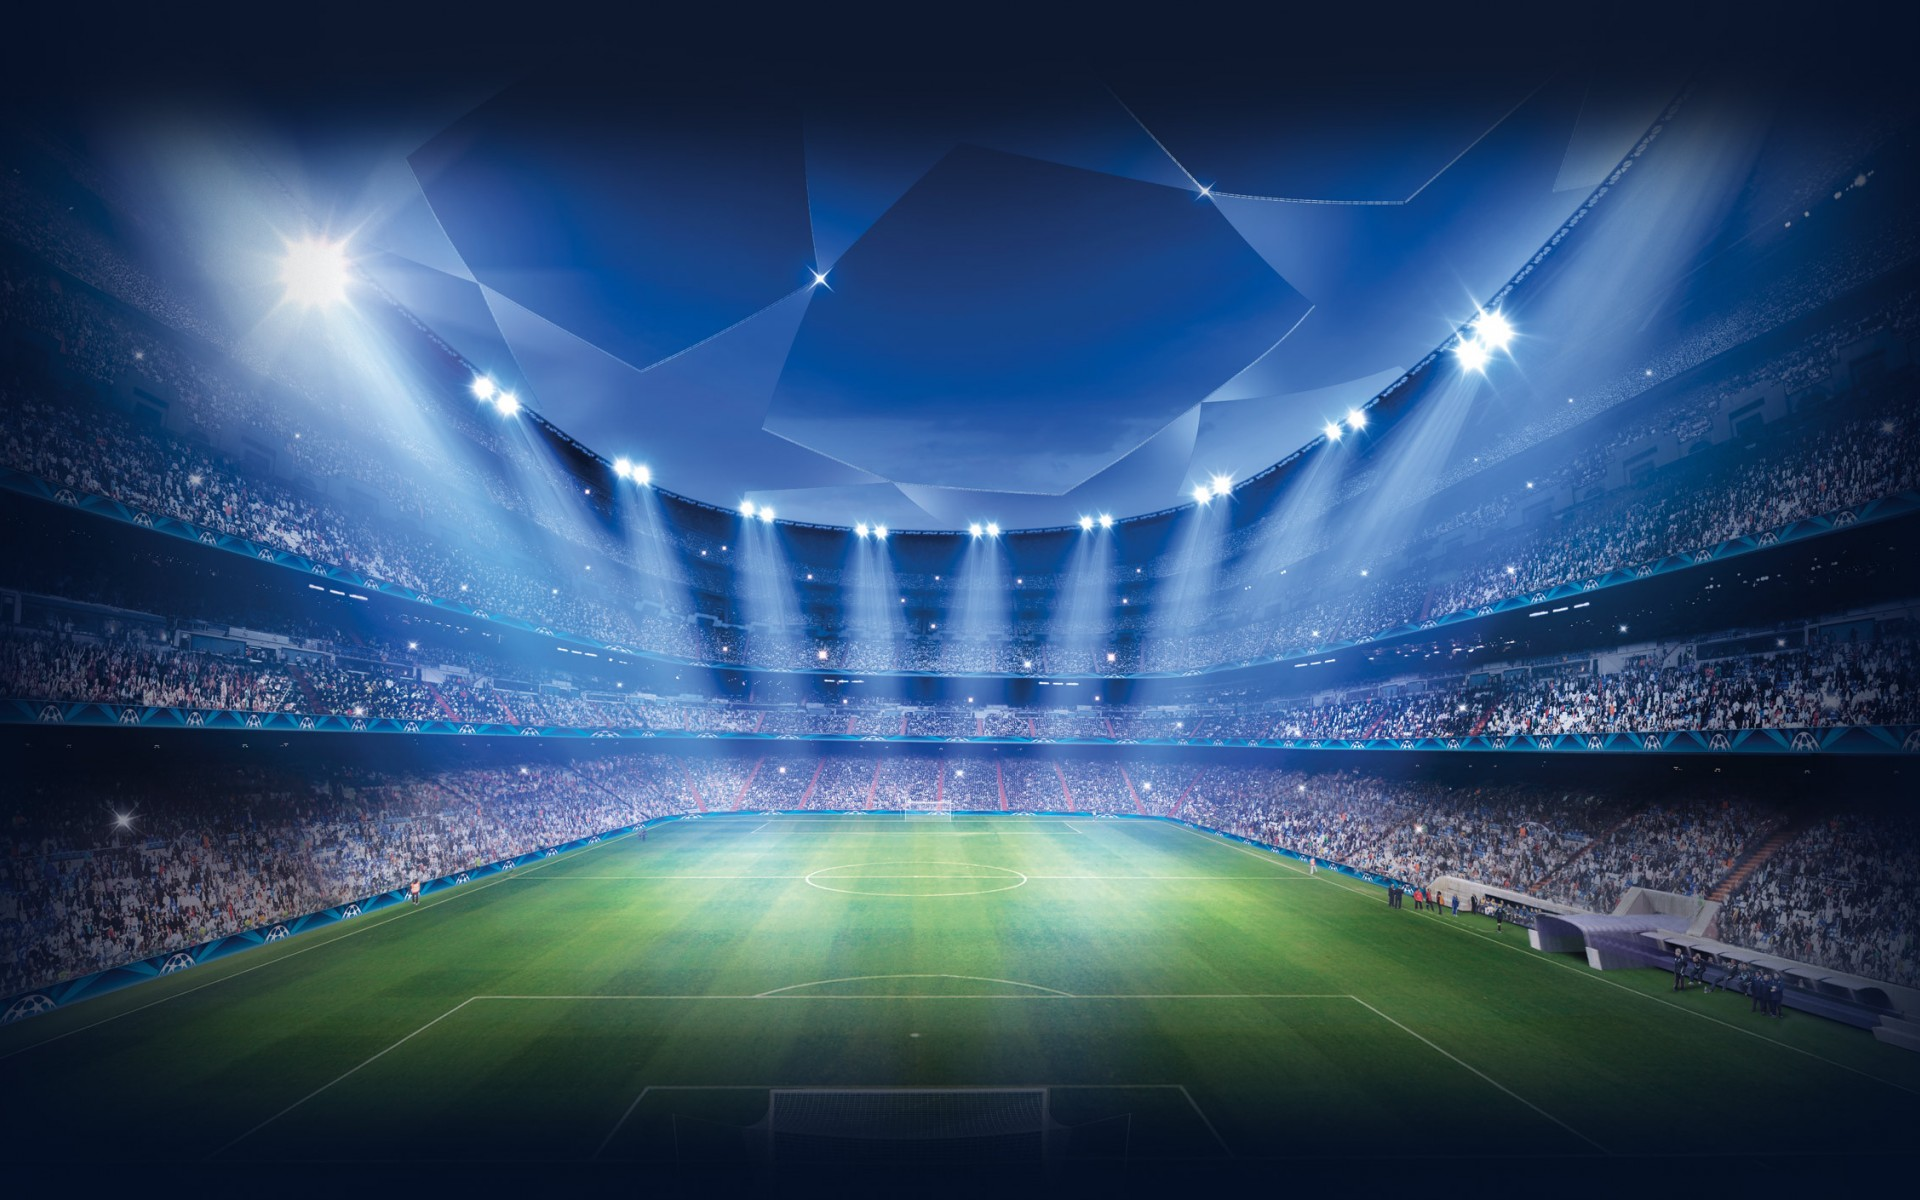
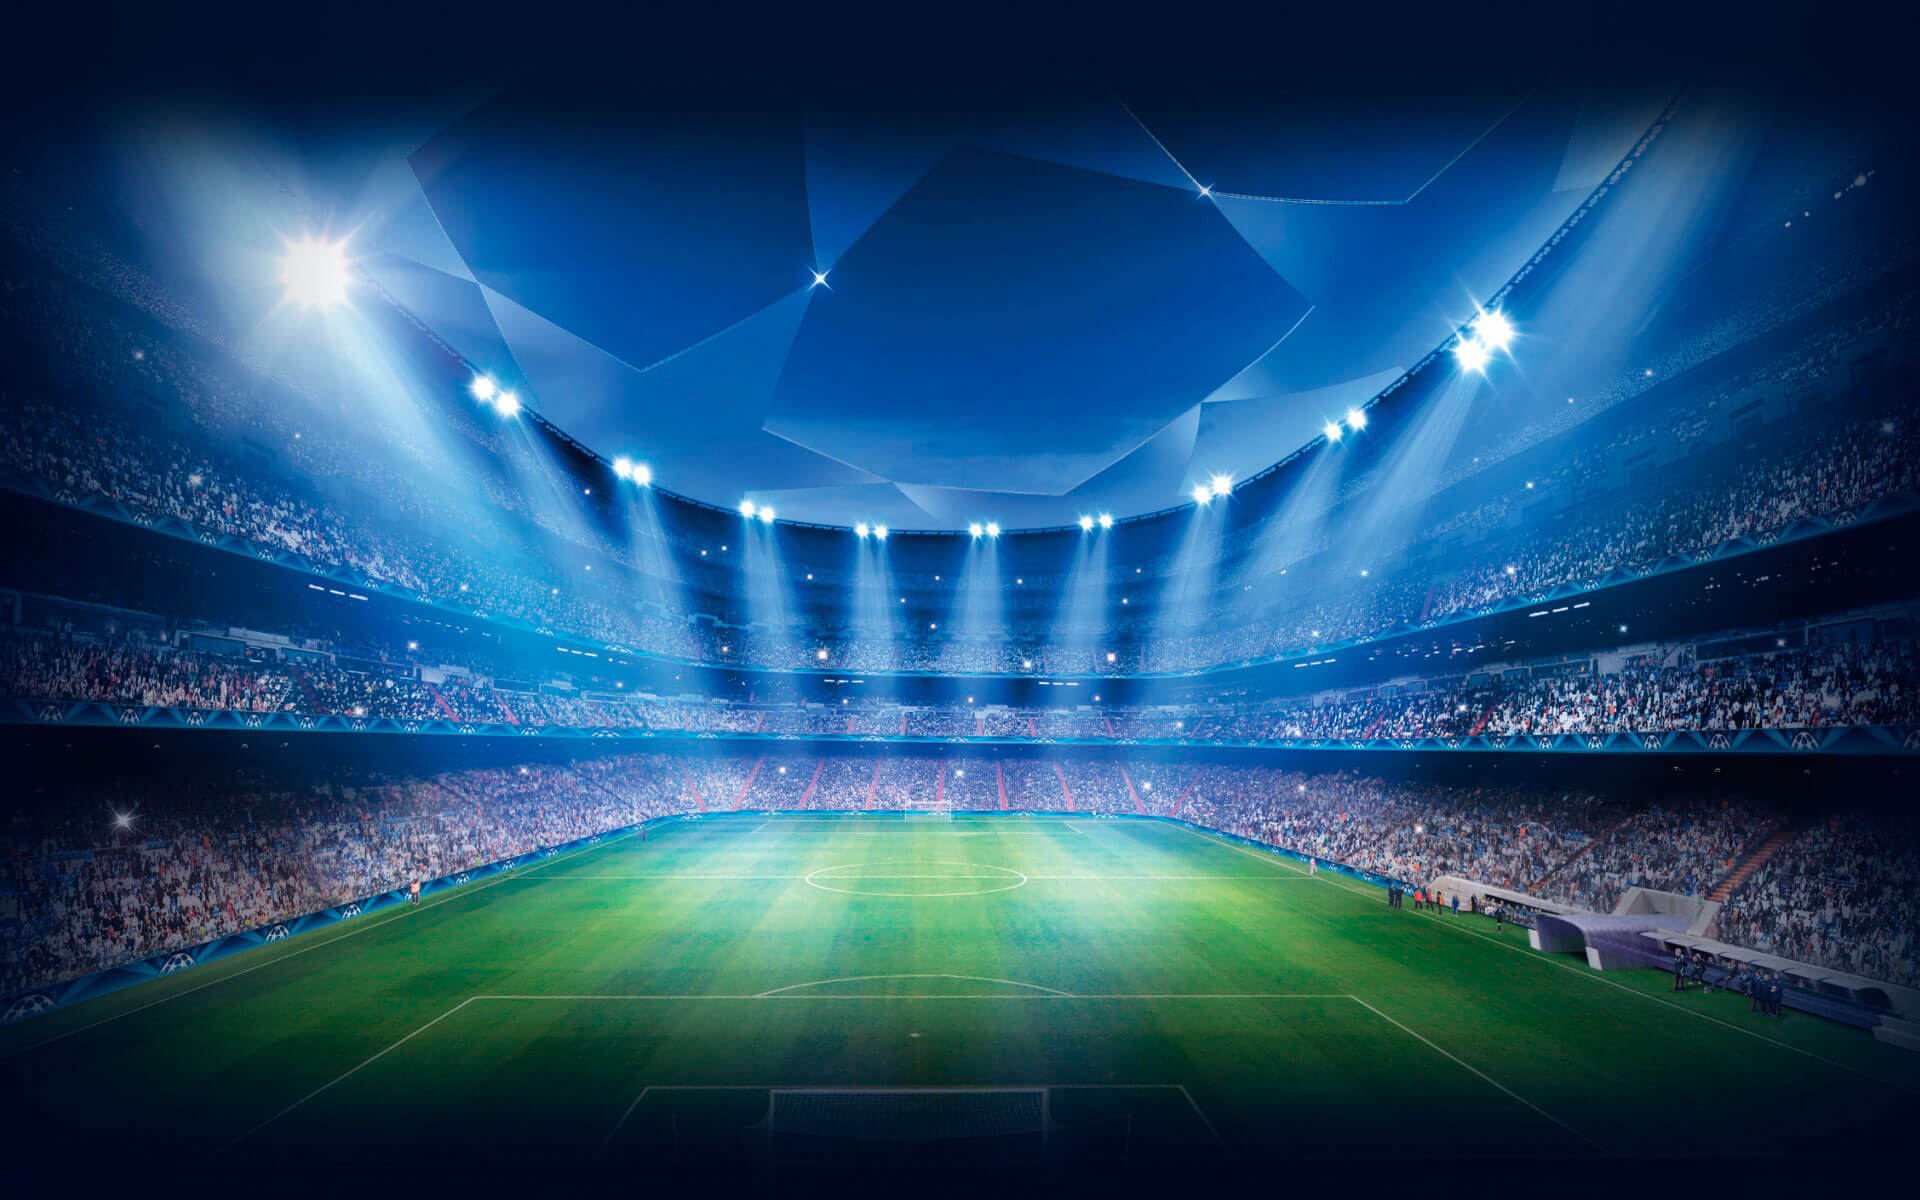
estable1
estable 1

diff --git a/css/intro.css b/css/intro.css
@@ -8,7 +8,9 @@
 body {
 	background: #310404 url(/img/bg-home.jpg) repeat top left;
 	font-family: 'Electrolize';
+	background-size: cover;
 }
+img.mm-uefa{position: absolute;z-index: 20;top:4%;right:4%;width: 7%;}
 
 .container{
 	width: 100%;
@@ -335,4 +337,49 @@ h1.main,p.demos {
 		opacity: 1;
 		transform: scale(1) rotate(0deg);
 	}
+}
+
+
+@media (min-width:320px) {
+/* smartphones, portrait iPhone, portrait 480x320 phones (Android) */
+	img.mm-uefa{position: absolute;z-index: 20;top:4%;right:4%;width: 7%;}
+}
+@media (min-width:480px) {
+/* smartphones, Android phones, landscape iPhone */
+img.mm-uefa{position: absolute;z-index: 20;top:4%;right:4%;width: 7%;}
+}
+@media (min-width:600px) {
+/* portrait tablets, portrait iPad, e-readers (Nook/Kindle), landscape 800x480 phones (Android) */
+img.mm-uefa{position: absolute;z-index: 20;top:4%;right:4%;width: 7%;}
+}
+@media (min-width:801px) and (orientation: portrait){
+/* tablet, landscape iPad, lo-res laptops ands desktops */
+/* huawei 7 pulgadas*/
+	.sp-container h2{font-size: 3em;}
+	.sp-container h2 span{font-size: 1.5em;}
+	.sp-container h2.frame-4{font-size: 4.5em;}
+	img.mm-uefa{position: absolute;z-index: 20;top:4%;right:4%;width: 15%;}
+	.sp-circle-link {
+
+		line-height: 140px;
+		width: 140px;
+		height: 140px;
+		font-size: 3em;
+	}
+}
+@media (min-width:801px) and (orientation: landscape){
+/* tablet, landscape iPad, lo-res laptops ands desktops */
+/* huawei 7 pulgadas*/
+.sp-container h2{font-size: 3em;}
+.sp-container h2 span{font-size: 1em;}
+.sp-container h2.frame-4{font-size: 2.5em;}
+img.mm-uefa{position: absolute;z-index: 20;top:4%;right:4%;width: 15%;}
+}
+@media (min-width:1025px) {
+/* big landscape tablets, laptops, and desktops */
+img.mm-uefa{position: absolute;z-index: 20;top:4%;right:4%;width: 7%;}
+}
+@media (min-width:1281px) {
+/* hi-res laptops and desktops */
+img.mm-uefa{position: absolute;z-index: 20;top:4%;right:4%;width: 7%;}
 }

diff --git a/parciales/equipo.html b/parciales/equipo.html
@@ -1,6 +1,11 @@
 
 
 <h1>Update equipo <span class="small">{{ alumno.nombreEquipo }}</span></h1>
+
+<hr>
+            {{ items | json }}
+
+
 <hr>
 <div class="row">
    <form ng-submit="guardarEquipo()">
@@ -40,6 +45,30 @@
          Grupo Liga:
          <input type="text" class="form-control" tabindex="7" ng-model="alumno.grupoLiga" required>
       </div>
+
+         <div class="row">
+<!--             <div class="col-md-6">
+               Posicion Jugador 2:{{posicionSeleccionada}} 
+               <select ng-model="posicionSeleccionada" class="form-control" ng-options="item as item.posicion for item in items">
+                  <option value="">asdasd</option>
+               </select>
+            </div> -->
+            <div class="col-md-6">
+               Posicion Jugador 2:{{posicionSeleccionada2}} 
+              <select ng-model="posicionSeleccionada2" class="form-control" ng-options="mypos.posicion for mypos in items track by mypos.idPosicion">
+                  <option ng-repeat="nombreposicion2 in items" value="{{nombreposicion2.idPosicion}}">{{nombreposicion2.posicion}}</option>
+               </select>
+               Posicion Jugador 1:{{posicionSeleccionada}} 
+               
+               <select ng-model="posicionSeleccionada" class="form-control" ng-options="mypos.posicion for mypos in items track by mypos.idPosicion">
+                  <option ng-repeat="nombreposicion in items" value="{{nombreposicion.idPosicion}}">{{nombreposicion.posicion}}</option>
+               </select>
+            </div>
+               
+            </div>
+         </div>
+
+   
       <!-- 	Teléfono:
          <input type="text" class="form-control" tabindex="" ng-model="alumno.telefono" ui-mask="{{telefonoMask}}" required>
          

diff --git a/js/equipoCtrl.js b/js/equipoCtrl.js
@@ -1,3 +1,4 @@
+
 app.controller('equipoCtrl', ['$scope', '$routeParams', '$http', function($scope,$routeParams,$http){
 	$('.mainApp').removeClass('fluid-container').addClass('container');
 	
@@ -5,6 +6,9 @@ app.controller('equipoCtrl', ['$scope', '$routeParams', '$http', function($scope
 	var idEquipo = $routeParams.idEquipo;
 	$scope.actualizado = false;
 	$scope.alumno = {};
+	$scope.items={};
+	// $scope.posicionSeleccionada="2";
+	// $scope.posicionSeleccionada2="1";
 
 	$http.get('php/servicios/equipos.getEquipo.php?c='+ idEquipo)
 	.success(function(data){
@@ -16,6 +20,15 @@ app.controller('equipoCtrl', ['$scope', '$routeParams', '$http', function($scope
 		$scope.alumno = data;
 
 	});
+
+
+	$http.get('php/servicios/alumnos.posiciones.php')
+	.success(function(data){
+
+		$scope.items=data;
+	});
+
+
 
 	$scope.guardarEquipo = function(){
 

diff --git a/js/clasificacionCtrl.js b/js/clasificacionCtrl.js
@@ -1,34 +1,4 @@
-app.controller('clasificacionCtrl', ['$scope','$http', function($scope,$http){
-	$('.mainApp').removeClass('fluid-container').addClass('container');
-	
-	$scope.setActive("mClasificacion");
 
-	$scope.alumnos={};
-	$scope.posicion=5;
-
-	$http.get('php/servicios/equipos.listado.php')
-	.success(function(data){
-
-		$scope.alumnos=data;
-	});
-
-	$scope.siguientes = function(){
-
-		if ($scope.alumnos.length > $scope.posicion) {
-
-			$scope.posicion +=5;
-		};
-	}
-
-	$scope.anteriores = function(){
-
-		if ($scope.posicion > 5) {
-
-			$scope.posicion -=5;
-		};
-	}
-
-}]);
 
 app.controller('clasificacionACtrl', ['$scope','$http', function($scope,$http){
 	

diff --git a/index.html b/index.html
@@ -25,7 +25,7 @@
 
                 <h2 class="frame-3">Levantarás la copa o saldrás en la intranet?</h2>
 
-                <h2 class="frame-4">Apúntate YA!</h2>
+                <h2 class="frame-4">Apúntate!</h2>
 
                 <h2 class="frame-5"><span>Pásala</span> <span>Dispara</span> <span>GOLLLL!</span></h2>
     <a class="sp-circle-link" href="home.html#/clasificacion">GO!</a>
@@ -33,6 +33,6 @@
         </div>
     </div>
 </div>
-
+<img class="mm-uefa" src="/img/uefa.png" alt="Media Champions League">
     </body>
 </html>

diff --git a/js/app.js b/js/app.js
@@ -4,6 +4,7 @@ app.controller('mainCtrl', ['$scope','$http', function($scope,$http){
   
 	$scope.menuSuperior = 'parciales/menu.html';
 	$scope.telefonoMask = '9999-9999';
+	
 
 	$scope.setActive = function(Opcion){
 
@@ -25,6 +26,8 @@ app.controller('mainCtrl', ['$scope','$http', function($scope,$http){
 		$scope[Opcion] = "fluid-container";
 
 	}
+
+
 
 }]);
 

diff --git a/parciales/clasificacion.html b/parciales/clasificacion.html
@@ -2,7 +2,6 @@
 <hr>
 
 <div class="row">
-            <!-- {{ alumnos | json }} -->
 <div class="col-md-6 searcher">
 <select ng-model="busqueda.grupoLiga" class="form-control">
 	<option value="">TODOS LOS GRUPOS</option>

diff --git a/css/style.css b/css/style.css
@@ -16,3 +16,5 @@ body *{
 }
 
 
+.row .row{margin: 0;}
+

diff --git a/php/servicios/alumnos.posiciones.php b/php/servicios/alumnos.posiciones.php
@@ -1,0 +1,13 @@
+<?php
+// Incluir la clase de base de datos
+include_once("../classes/class.Database.php");
+
+// Retorna un json
+header('Content-Type: application/json');
+
+//$sql = 'SELECT * FROM alumnos WHERE grupoLiga = "B"';
+$sql = "SELECT * FROM posiciones ORDER BY posicion ASC";
+
+echo Database::get_json_rows($sql);
+
+?>
